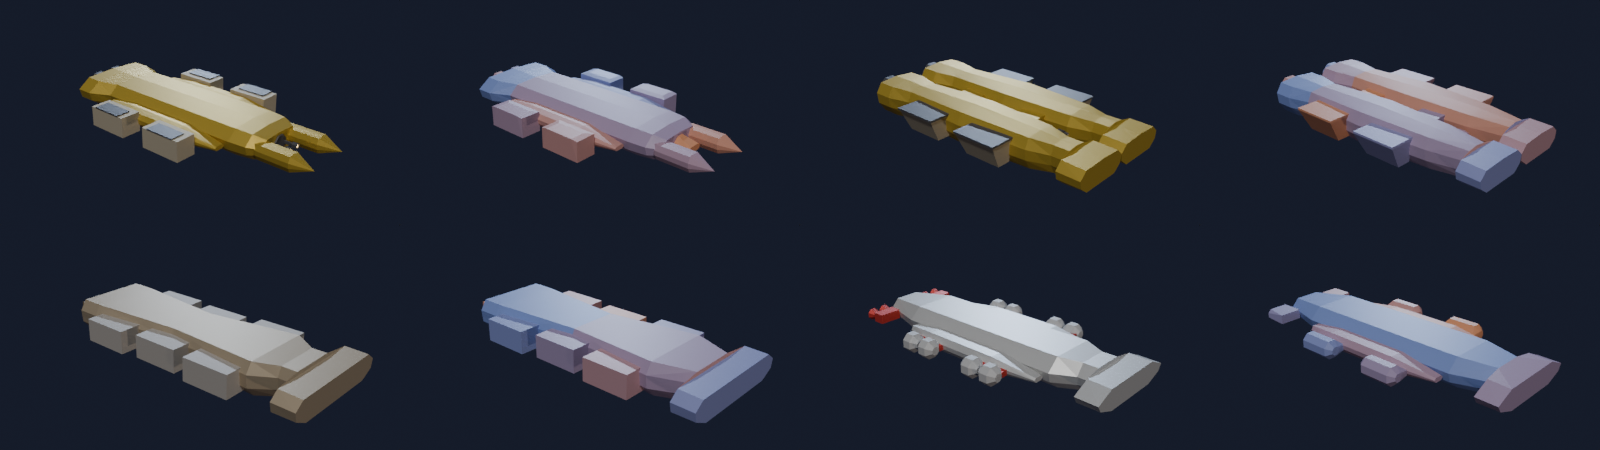
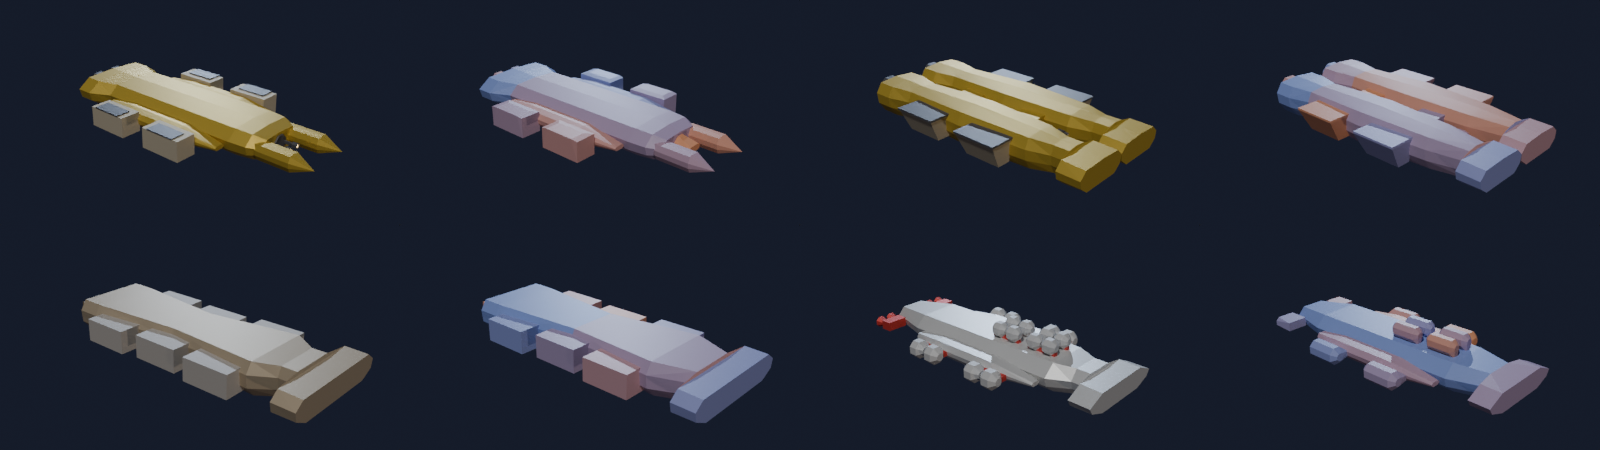
Kit: roof sockets for more cargo
- mono hulls get a mirrored pair of module rows on the roof (when wide
  enough), twin hulls one row per hull; modules fill sides first, then roof
- roof-mounted modules turn their 'up' outboard so mirrored sockets carry
  mirrored modules
- collision report and tests now stress 12 modules: still 0 collisions;
  presets get all requested modules (tanker_m: 8 instead of 4)

Claude-Session: https://claude.ai/code/session_0189xRjiiTMx3apXWGHbTKDT

Changed region(s): [[0.7812, 0.6222, 1.0, 0.9333], [0.5312, 0.6222, 0.75, 0.9333]]

diff --git a/shipgen/kit/__init__.py b/shipgen/kit/__init__.py
@@ -119,6 +119,27 @@ def _side_sockets(layout: HullLayout, length: float, module: float, x_c: float, 
     return out
 
 
+def _top_sockets(layout: HullLayout, length: float, module: float, chamfer: float, ridge: float, single=False):
+    """Roof sockets along the mid section: a mirrored pair of rows on the roof, or one row on
+    the centre line of a twin hull (``single``; its twin provides the mirror)."""
+    y_a, y_b = layout.y_mid
+    span = y_b - y_a
+    out = []
+    probe = section_at(layout, 0.5 * (y_a + y_b), length)
+    roof_w = probe.half_width * (1.0 - 0.7 * chamfer)  # half width of the flat roof
+    m = min(module, (2.0 if single else 0.9) * roof_w * 0.9)
+    if m < 0.25 * module:
+        return out  # roof too narrow
+    cols = max(int(span // (2.2 * m)), 1)
+    for c in range(cols):
+        y = y_a + span * (c + 0.5) / cols
+        top = max(section_at(layout, yy, length).top for yy in (y - m, y, y + m))
+        xs = (0.0,) if single else (0.55 * m, -0.55 * m)
+        for x in xs:
+            out.append(Socket("top", Vector((layout.x_offset + x, y, top)), Vector((0, 0, 1)), m))
+    return out
+
+
 # ---------------------------------------------------------------- assembly
 
 def build(raw_params: dict, plan=None, tail=None, mid=None, nose=None, engine_design=None, rig_design=None,
@@ -189,6 +210,7 @@ def build(raw_params: dict, plan=None, tail=None, mid=None, nose=None, engine_de
             for a, c, rr in py:
                 col_extras.append(_grab(parts_bm, lambda a=a, c=c, rr=rr: shapes.beam(parts_bm, a, c, 0.5 * rr, 0.25 * rr, 0)))
             sockets += _side_sockets(b, length, module, b.x_offset, outer_only_sign=1 if b.x_offset > 0 else -1)
+            sockets += _top_sockets(b, length, module, chamfer, ridge, single=True)
         if n_eng % 2:
             warnings.append("twin hulls need an even engine count; one engine dropped")
         sockets.append(Socket("nose", Vector((0, lay.y_mid[1], 0.0)), Vector((0, 1, 0)), 0.45 * gap))
@@ -227,6 +249,7 @@ def build(raw_params: dict, plan=None, tail=None, mid=None, nose=None, engine_de
                     sockets.append(Socket("side", Vector((s * x_out, y, 0.0)), Vector((s, 0, 0)), module))
         else:
             sockets += _side_sockets(lay, length, module, 0.0)
+        sockets += _top_sockets(lay, length, module, chamfer, ridge)
         if design.plan == "fork":
             pw = 0.3 * front.half_width
             for s in (1, -1):
@@ -275,10 +298,13 @@ def build(raw_params: dict, plan=None, tail=None, mid=None, nose=None, engine_de
     if module_design is None and cargo_kind != "none":
         module_design = pick.choice(module_designs.designs_of(cargo_kind))
     wanted = p["cargo"]["modules"] if cargo_kind != "none" else 0
-    # modules go on mirrored socket pairs (front to back), so the ship stays symmetric
-    sides = sorted((s for s in sockets if s.kind == "side"), key=lambda s: (-s.pos.y, abs(s.pos.x), s.pos.x))
+    # modules go on mirrored socket pairs (front to back), sides first, then the roof
+    def pairs_of(kind):
+        socks = sorted((s for s in sockets if s.kind == kind), key=lambda s: (-s.pos.y, abs(s.pos.x), s.pos.x))
+        return [socks[i:i + 2] for i in range(0, len(socks) - 1, 2)]
+
     placed = 0
-    for pair in (sides[i:i + 2] for i in range(0, len(sides) - 1, 2)):
+    for pair in pairs_of("side") + pairs_of("top"):
         if placed + 2 > wanted:
             break
         for sk in pair:
@@ -286,7 +312,7 @@ def build(raw_params: dict, plan=None, tail=None, mid=None, nose=None, engine_de
                                                                                     sk.normal, sk.radius), sk)
         placed += 2
     if placed < wanted:
-        warnings.append(f"cargo.modules: placed {placed} of {wanted} (pairs only, limited by side sockets)")
+        warnings.append(f"cargo.modules: placed {placed} of {wanted} (pairs only, limited by side and roof sockets)")
 
     conflicts = find_conflicts(instances, obstacles)
     if resolve:

diff --git a/scripts/kit_conflicts.py b/scripts/kit_conflicts.py
@@ -32,7 +32,7 @@ def main():
     args = ap.parse_args(sys.argv[sys.argv.index("--") + 1:] if "--" in sys.argv else sys.argv[1:])
     bpy.ops.wm.read_factory_settings(use_empty=True)
     base = params.load(os.path.join(ROOT, "presets", "miner_m.json")).params
-    base = dict(base, spread=0, cargo=dict(base["cargo"], modules=8, size=0.8),
+    base = dict(base, spread=0, cargo=dict(base["cargo"], modules=12, size=0.8),
                 mining=dict(base["mining"], size=1.0))
 
     pairs = collections.Counter()
@@ -60,7 +60,7 @@ def main():
     lines = [
         "# Parts-kit collision report",
         "",
-        f"{builds} builds (240 hulls x 4 rig kinds x 4 cargo kinds, stress loadout: 8 modules at size 0.8, rig size 1.0).",
+        f"{builds} builds (240 hulls x 4 rig kinds x 4 cargo kinds, stress loadout: 12 modules at size 0.8, rig size 1.0).",
         "",
         f"- ships with at least one collision before resolving: **{ships_with_conflict}** "
         f"({100 * ships_with_conflict / builds:.1f} %)",

diff --git a/shipgen/kit/module_designs.py b/shipgen/kit/module_designs.py
@@ -1,4 +1,4 @@
-"""Cargo / ore / tank / habitat module designs in unit size for side sockets.
+"""Cargo / ore / tank / habitat module designs in unit size for side and roof sockets.
 
 Local frame at the socket: ``n`` = socket normal (out of the hull), ``t`` = along
 the ship (+Y), ``u`` = up (+Z). Contract (the module's build space):
@@ -21,7 +21,10 @@ class Frame:
     def __init__(self, pos, normal, m):
         self.o, self.n, self.m = Vector(pos), Vector(normal).normalized(), m
         self.t = Vector((0, 1, 0))
-        self.u = Vector((0, 0, 1))
+        if abs(self.n.z) > 0.9:  # roof socket: "up" of the module points outboard, so mirrored
+            self.u = Vector((1.0 if self.o.x >= 0 else -1.0, 0, 0))  # sockets give mirrored modules
+        else:
+            self.u = Vector((0, 0, 1))
 
     def p(self, n, t, u):
         return self.o + (self.n * n + self.t * t + self.u * u) * self.m

diff --git a/tests/test_kit.py b/tests/test_kit.py
@@ -112,7 +112,7 @@ class KitShipTest(unittest.TestCase):
             rig = ("drill", "laser", "claw", "scoop")[i % 4]
             cargo = ("containers", "hoppers", "tanks", "habitat")[(i // 4) % 4]
             p = dict(self.base, mining=dict(self.base["mining"], type=rig, size=1.0),
-                     cargo=dict(self.base["cargo"], type=cargo, modules=8, size=0.8))
+                     cargo=dict(self.base["cargo"], type=cargo, modules=12, size=0.8))
             with self.subTest(design=f"{plan}/{tail}/{mid}/{nose}", rig=rig, cargo=cargo):
                 ship = self.kit.build(p, plan=plan, tail=tail, mid=mid, nose=nose)
                 self.assertEqual(ship.conflicts, [])

diff --git a/docs/kit/README.md b/docs/kit/README.md
@@ -6,6 +6,7 @@ Generated by `scripts/kit_demo.py`.
 - `rigs.png`: 0 drill_cone (drill), 1 drill_triple (drill), 2 grinder_drum (drill), 3 laser_single (laser), 4 laser_twin (laser), 5 laser_array (laser), 6 claw_twin (claw), 7 claw_quad (claw), 8 scoop_funnel (scoop), 9 scoop_ring (scoop)
 - `modules.png`: 0 crate (containers), 1 ribbed_container (containers), 2 double_container (containers), 3 ore_hopper (hoppers), 4 ore_skip (hoppers), 5 tank_cylinder (tanks), 6 tank_twin (tanks), 7 tank_spheres (tanks), 8 habitat_drum (habitat), 9 habitat_block (habitat)
 - `conflicts.md`: collision report from `scripts/kit_conflicts.py`
+- `colliders.png`: ship / its convex Godot collision shapes, side by side
 - `matrix.png`: rows = tails flat, taper, flare, outboard; columns = engine designs 0-9
 - `silhouettes_*.png` / `ships_*.png`: seeds 1-8, left to right, top to bottom:
 
@@ -17,27 +18,27 @@ Generated by `scripts/kit_demo.py`.
   - miner_m 6: mono/outboard/sponson/blunt + long_pod / laser_array / ore_skip
   - miner_m 7: twin/flat/stepped/hammer + twin_bell / laser_single / ore_hopper
   - miner_m 8: mono/flat/straight/hammer + ring_drive / laser_twin / ore_hopper
-  - hauler_m 1: twin/flare/straight/cockpit + ring_drive / none / crate (warnings: cargo.modules: placed 4 of 6 (pairs only, limited by side sockets))
+  - hauler_m 1: twin/flare/straight/cockpit + ring_drive / none / crate
   - hauler_m 2: mono/taper/stepped/blunt + ring_drive / none / ribbed_container
   - hauler_m 3: mono/flat/waist/hammer + block / none / crate
   - hauler_m 4: mono/flat/stepped/hammer + long_pod / none / ribbed_container
   - hauler_m 5: twin/flare/waist/hammer + ring_drive / none / double_container
   - hauler_m 6: mono/flare/stepped/blunt + twin_bell / none / ribbed_container
-  - hauler_m 7: twin/taper/straight/cockpit + bell / none / crate (warnings: cargo.modules: placed 4 of 6 (pairs only, limited by side sockets))
-  - hauler_m 8: mono/flare/stepped/hammer + ring_drive / none / double_container (warnings: cargo.modules: placed 4 of 6 (pairs only, limited by side sockets))
-  - tanker_m 1: mono/taper/sponson/hammer + twin_bell / none / tank_spheres (warnings: cargo.modules: placed 4 of 8 (pairs only, limited by side sockets))
-  - tanker_m 2: twin/flat/stepped/cockpit + long_pod / none / tank_cylinder (warnings: cargo.modules: placed 6 of 8 (pairs only, limited by side sockets))
-  - tanker_m 3: mono/flare/sponson/hammer + heavy_stack / none / tank_cylinder (warnings: cargo.modules: placed 4 of 8 (pairs only, limited by side sockets))
+  - hauler_m 7: twin/taper/straight/cockpit + bell / none / crate
+  - hauler_m 8: mono/flare/stepped/hammer + ring_drive / none / double_container
+  - tanker_m 1: mono/taper/sponson/hammer + twin_bell / none / tank_spheres
+  - tanker_m 2: twin/flat/stepped/cockpit + long_pod / none / tank_cylinder
+  - tanker_m 3: mono/flare/sponson/hammer + heavy_stack / none / tank_cylinder
   - tanker_m 4: mono/flat/straight/blunt + twin_bell / none / tank_cylinder
   - tanker_m 5: twin/flat/waist/hammer + ion_cone / none / tank_twin
-  - tanker_m 6: mono/taper/straight/cockpit + long_pod / none / tank_cylinder (warnings: cargo.modules: placed 6 of 8 (pairs only, limited by side sockets))
+  - tanker_m 6: mono/taper/straight/cockpit + long_pod / none / tank_cylinder
   - tanker_m 7: twin/taper/sponson/blunt + bell / none / tank_twin
-  - tanker_m 8: mono/flat/sponson/cockpit + long_pod / none / tank_cylinder (warnings: cargo.modules: placed 4 of 8 (pairs only, limited by side sockets))
+  - tanker_m 8: mono/flat/sponson/cockpit + long_pod / none / tank_cylinder
   - liner_m 1: mono/flat/straight/cockpit + bell / none / habitat_block
   - liner_m 2: mono/flat/waist/cockpit + cluster / none / habitat_drum
   - liner_m 3: mono/flat/bulge/blunt + ion_cone / none / habitat_block
-  - liner_m 4: mono/taper/bulge/cockpit + finned / none / habitat_block (warnings: engines.size capped to 1.79 to fit the tail; cargo.modules: placed 4 of 6 (pairs only, limited by side sockets))
+  - liner_m 4: mono/taper/bulge/cockpit + finned / none / habitat_block (warnings: engines.size capped to 1.79 to fit the tail)
   - liner_m 5: mono/flat/straight/cockpit + twin_bell / none / habitat_block
   - liner_m 6: mono/flat/bulge/blunt + heavy_stack / none / habitat_drum
-  - liner_m 7: mono/taper/straight/cockpit + ring_drive / none / habitat_drum (warnings: engines.size capped to 1.73 to fit the tail; cargo.modules: placed 4 of 6 (pairs only, limited by side sockets))
+  - liner_m 7: mono/taper/straight/cockpit + ring_drive / none / habitat_drum (warnings: engines.size capped to 1.73 to fit the tail)
   - liner_m 8: mono/taper/waist/blunt + heavy_stack / none / habitat_drum (warnings: engines.size capped to 1.79 to fit the tail)

diff --git a/docs/parts_kit.md b/docs/parts_kit.md
@@ -68,7 +68,9 @@ damit später Teile tauschen (Triebwerk nachrüsten), ohne neu zu generieren.
 - **10 Module** (`kit/module_designs.py`): Container (Kiste, gerippt, Doppel), Erz (Hopper, Skip),
   Tanks (Zylinder, Zwilling, Kugeln), Habitat (Trommel, Block). Bauraum je Seitensockel:
   Tiefe 1 × Länge 2 × Höhe 1, immer paarweise gespiegelt. Bei Seitenkästen sitzen sie außen
-  an den Kästen.
+  an den Kästen. Reihenfolge: erst Seitensockel, dann **Dachsockel** (Mono: zwei gespiegelte
+  Reihen auf dem Dach, wenn es breit genug ist; Twin: eine Reihe pro Rumpf). Auf dem Dach
+  zeigt das „oben“ des Moduls nach außen, damit gespiegelte Sockel gespiegelte Module tragen.
 
 ## 4. Kollisionen
 

diff --git a/docs/kit/conflicts.md b/docs/kit/conflicts.md
@@ -1,6 +1,6 @@
 # Parts-kit collision report
 
-3840 builds (240 hulls x 4 rig kinds x 4 cargo kinds, stress loadout: 8 modules at size 0.8, rig size 1.0).
+3840 builds (240 hulls x 4 rig kinds x 4 cargo kinds, stress loadout: 12 modules at size 0.8, rig size 1.0).
 
 - ships with at least one collision before resolving: **0** (0.0 %)
 - ships still colliding after resolving: **0**
